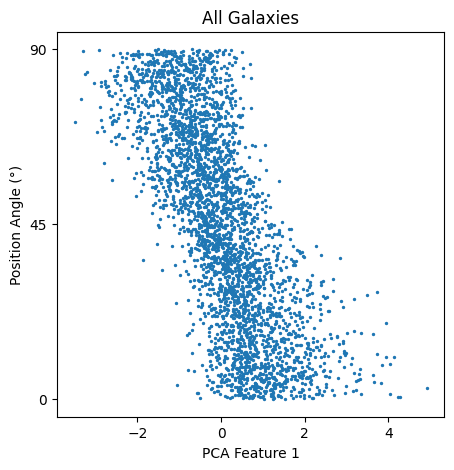
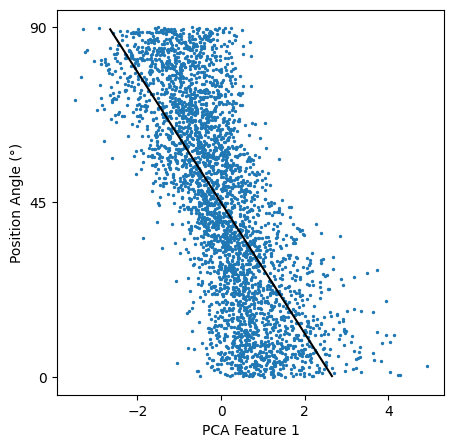
Code

diff --git a/comparison-extracted_features.py b/comparison-extracted_features.py
@@ -350,16 +350,16 @@ print(correlation_df)
 
 # combinations of features
 
-linear_model = LinearRegression()
-linear_model.fit(extracted_features, list(abs(all_properties["pa_r"])))
-
-predicted_sersic = linear_model.predict(extracted_features)
-
-print(linear_model.coef_)
-print(predicted_sersic)
-
-plt.scatter(predicted_sersic, list(abs(all_properties["pa_r"])))
-plt.show()
+# linear_model = LinearRegression()
+# linear_model.fit(extracted_features, list(abs(all_properties["pa_r"])))
+#
+# predicted_sersic = linear_model.predict(extracted_features)
+#
+# print(linear_model.coef_)
+# print(predicted_sersic)
+#
+# plt.scatter(predicted_sersic, list(abs(all_properties["pa_r"])))
+# plt.show()
 
 
 
@@ -512,32 +512,32 @@ def exponential(x, a, b, c):
 
 
 
-# fig, axs = plt.subplots(1, 1, figsize=(5, 5))
-#
-# axs.scatter(x=extracted_features_switch[1], y=abs(all_properties["pa_r"]), s=2)
-#
-# fit = np.polyfit(x=extracted_features_switch[1], y=abs(all_properties["pa_r"]), deg=1)
-# # fit = np.polyfit(x=extracted_features_switch[1], y=abs(all_properties["pa_r"]), deg=2)
-# # fit = np.polyfit(x=extracted_features_switch[1], y=abs(all_properties["pa_r"]), deg=3)
-#
+fig, axs = plt.subplots(1, 1, figsize=(5, 5))
+
+axs.scatter(x=extracted_features_switch[1], y=abs(all_properties["pa_r"]), s=2)
+
+fit = np.polyfit(x=extracted_features_switch[1], y=abs(all_properties["pa_r"]), deg=1)
+# fit = np.polyfit(x=extracted_features_switch[1], y=abs(all_properties["pa_r"]), deg=2)
+# fit = np.polyfit(x=extracted_features_switch[1], y=abs(all_properties["pa_r"]), deg=3)
+
 # x_fit = np.linspace(np.min(extracted_features_switch[1]), np.max(extracted_features_switch[1]), 100)
-# # x_fit = np.linspace(-2, 2, 100)
-#
-# y_fit = [(fit[0] * x) + (fit[1]) for x in x_fit]
-# # y_fit = [(fit[0] * x * x) + (fit[1] * x) + (fit[2]) for x in x_fit]
-# # y_fit = [(fit[0] * x * x * x) + (fit[1] * x * x) + (fit[2] * x) + (fit[3]) for x in x_fit]
-#
-# # axs.plot(x_fit, y_fit, c="black")
-#
+x_fit = np.linspace(-2.65, 2.65, 100)
+
+y_fit = [(fit[0] * x) + (fit[1]) for x in x_fit]
+# y_fit = [(fit[0] * x * x) + (fit[1] * x) + (fit[2]) for x in x_fit]
+# y_fit = [(fit[0] * x * x * x) + (fit[1] * x * x) + (fit[2] * x) + (fit[3]) for x in x_fit]
+
+axs.plot(x_fit, y_fit, c="black")
+
 # axs.set_title("All Galaxies")
-#
-# axs.set_xlabel("PCA Feature 1", fontsize=10)
-# axs.set_ylabel("Position Angle (°)", fontsize=10)
-# axs.tick_params(labelsize=10)
-# axs.set_yticks([0, 45, 90])
-#
-# plt.savefig("Variational Eagle/Plots/pca_feature_1_vs_position_angle_all_abs_" + str(encoding_dim) + "_" + str(run), bbox_inches='tight')
-# plt.show()
+
+axs.set_xlabel("PCA Feature 1", fontsize=10)
+axs.set_ylabel("Position Angle (°)", fontsize=10)
+axs.tick_params(labelsize=10)
+axs.set_yticks([0, 45, 90])
+
+plt.savefig("Variational Eagle/Plots/pca_feature_1_vs_position_angle_all_abs_" + str(encoding_dim) + "_" + str(run), bbox_inches='tight')
+plt.show()
 
 
 

diff --git a/vae_zoo.py b/vae_zoo.py
@@ -16,12 +16,12 @@ import cv2
 
 
 
-encoding_dim = 35
-run = 3
+encoding_dim = 40
+run = 1
 
 # select which gpu to use
 os.environ["CUDA_DEVICE_ORDER"]="PCI_BUS_ID"
-os.environ["CUDA_VISIBLE_DEVICES"]="4"
+os.environ["CUDA_VISIBLE_DEVICES"]="1"
 
 # number of epochs for run
 epochs = 750
